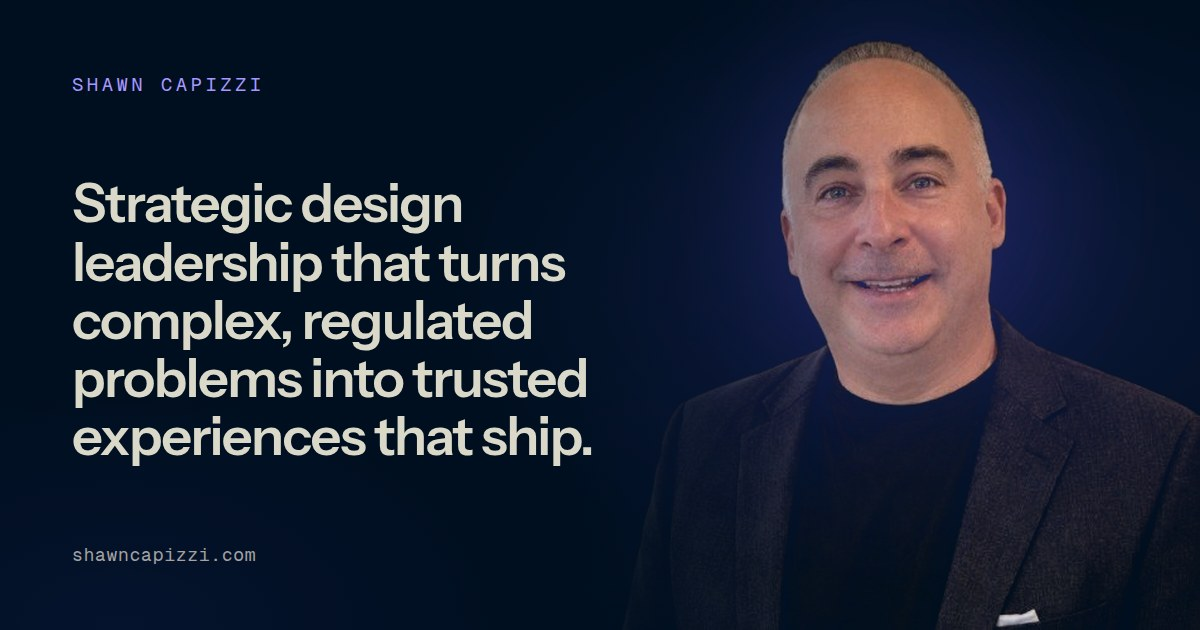
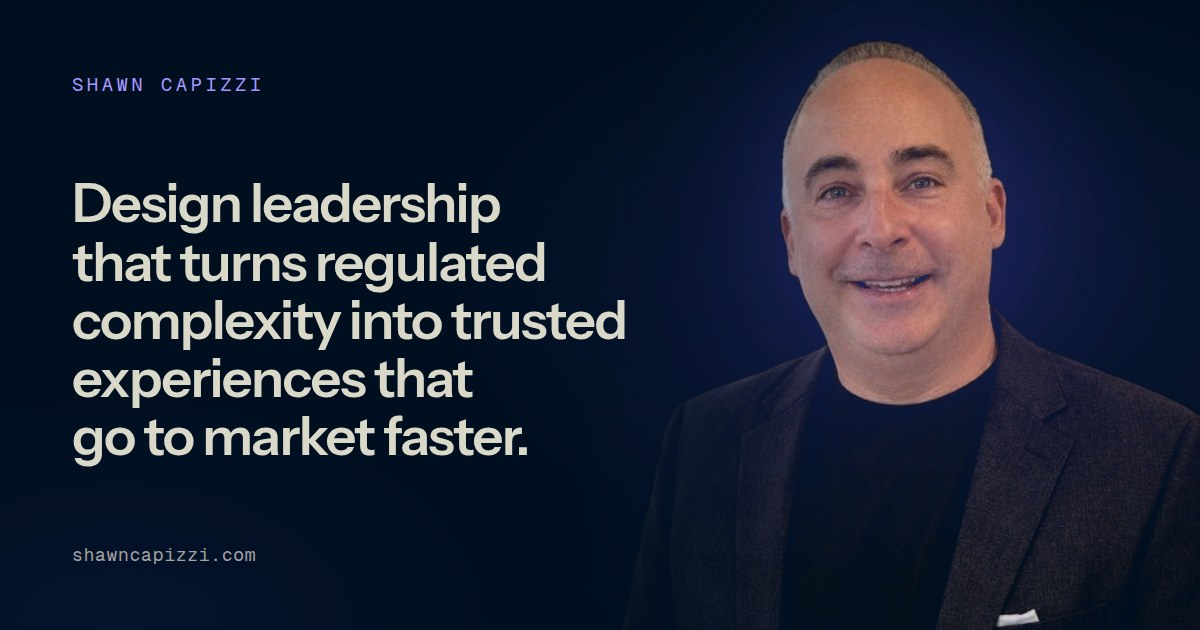
Hero: go-to-market headline, idea-to-launch lead, balanced wrapping

Changed region(s): [[0.0617, 0.2714, 0.5242, 0.754]]

diff --git a/components/Hero.tsx b/components/Hero.tsx
@@ -37,11 +37,11 @@ export function Hero() {
           {/* Left: Headline + lead + wordmark (signature). Below lg this
               wrapper is display: contents; see the note above. */}
           <div className="contents lg:block relative z-10 lg:col-span-7 lg:order-1">
-            <h1 className="headline-gleam hero-title max-w-full lg:max-w-[90%] order-1">
-              Strategic design leadership that turns complex, regulated problems into trusted experiences that ship.
+            <h1 className="headline-gleam hero-title text-balance max-w-full lg:max-w-[90%] order-1">
+              Design leadership that turns regulated complexity into trusted experiences that go to market faster.
             </h1>
-            <p className="hero-lead text-pretty max-w-full lg:max-w-[90%] order-3">
-              15 years designing and building products across pharma, healthcare, financial services, and enterprise. I research, design, prototype, build, and ship, from first sketch to live software.
+            <p className="hero-lead text-balance max-w-full lg:max-w-[90%] order-3">
+              15 years across pharma, healthcare, financial services, and enterprise. I diagnose, design, prototype, and build. Idea to launch.
             </p>
 
             <Wordmark
